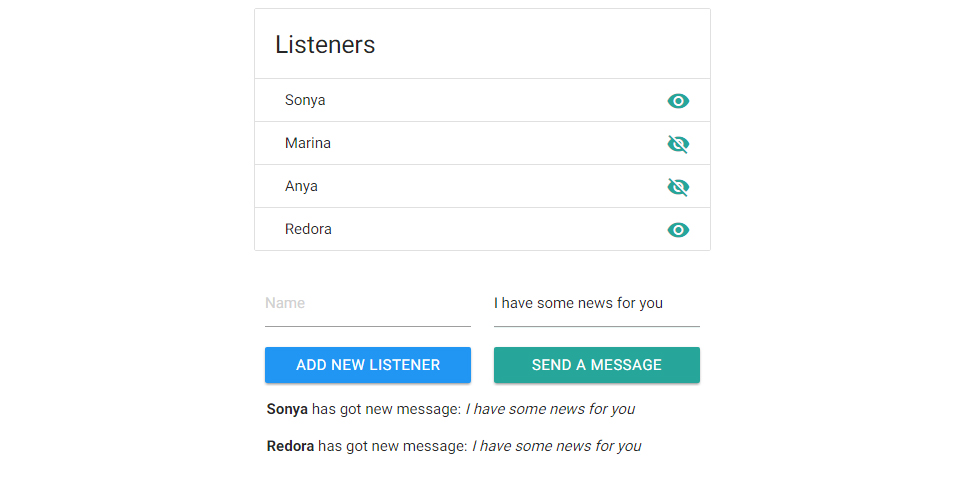
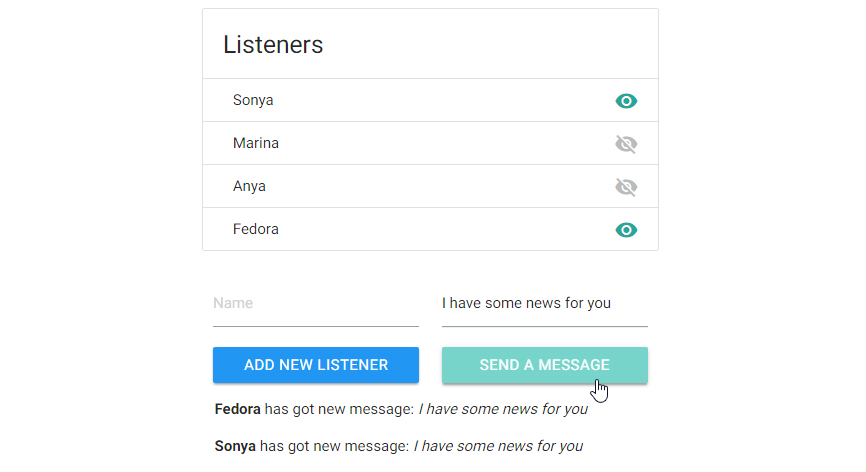
demo

diff --git a/index.html b/index.html
@@ -22,6 +22,9 @@
         button {
             width: 100%;
         }
+        i.material-icons.inactive {
+            color: #bbb;
+        }
     </style>
     <script src="https://code.jquery.com/jquery-3.1.1.min.js" integrity="sha256-hVVnYaiADRTO2PzUGmuLJr8BLUSjGIZsDYGmIJLv2b8=" crossorigin="anonymous"></script>
     <script src="https://cdnjs.cloudflare.com/ajax/libs/materialize/0.98.0/js/materialize.min.js"></script>
@@ -55,7 +58,7 @@
                 <i class="material-icons">visibility</i>
             </a>
             <a href="javascript:" class="secondary-content hide" onclick="manger.subscribe(this, '{name}')">
-                <i class="material-icons">visibility_off</i>
+                <i class="material-icons inactive">visibility_off</i>
             </a>
         </div>
     </li>
